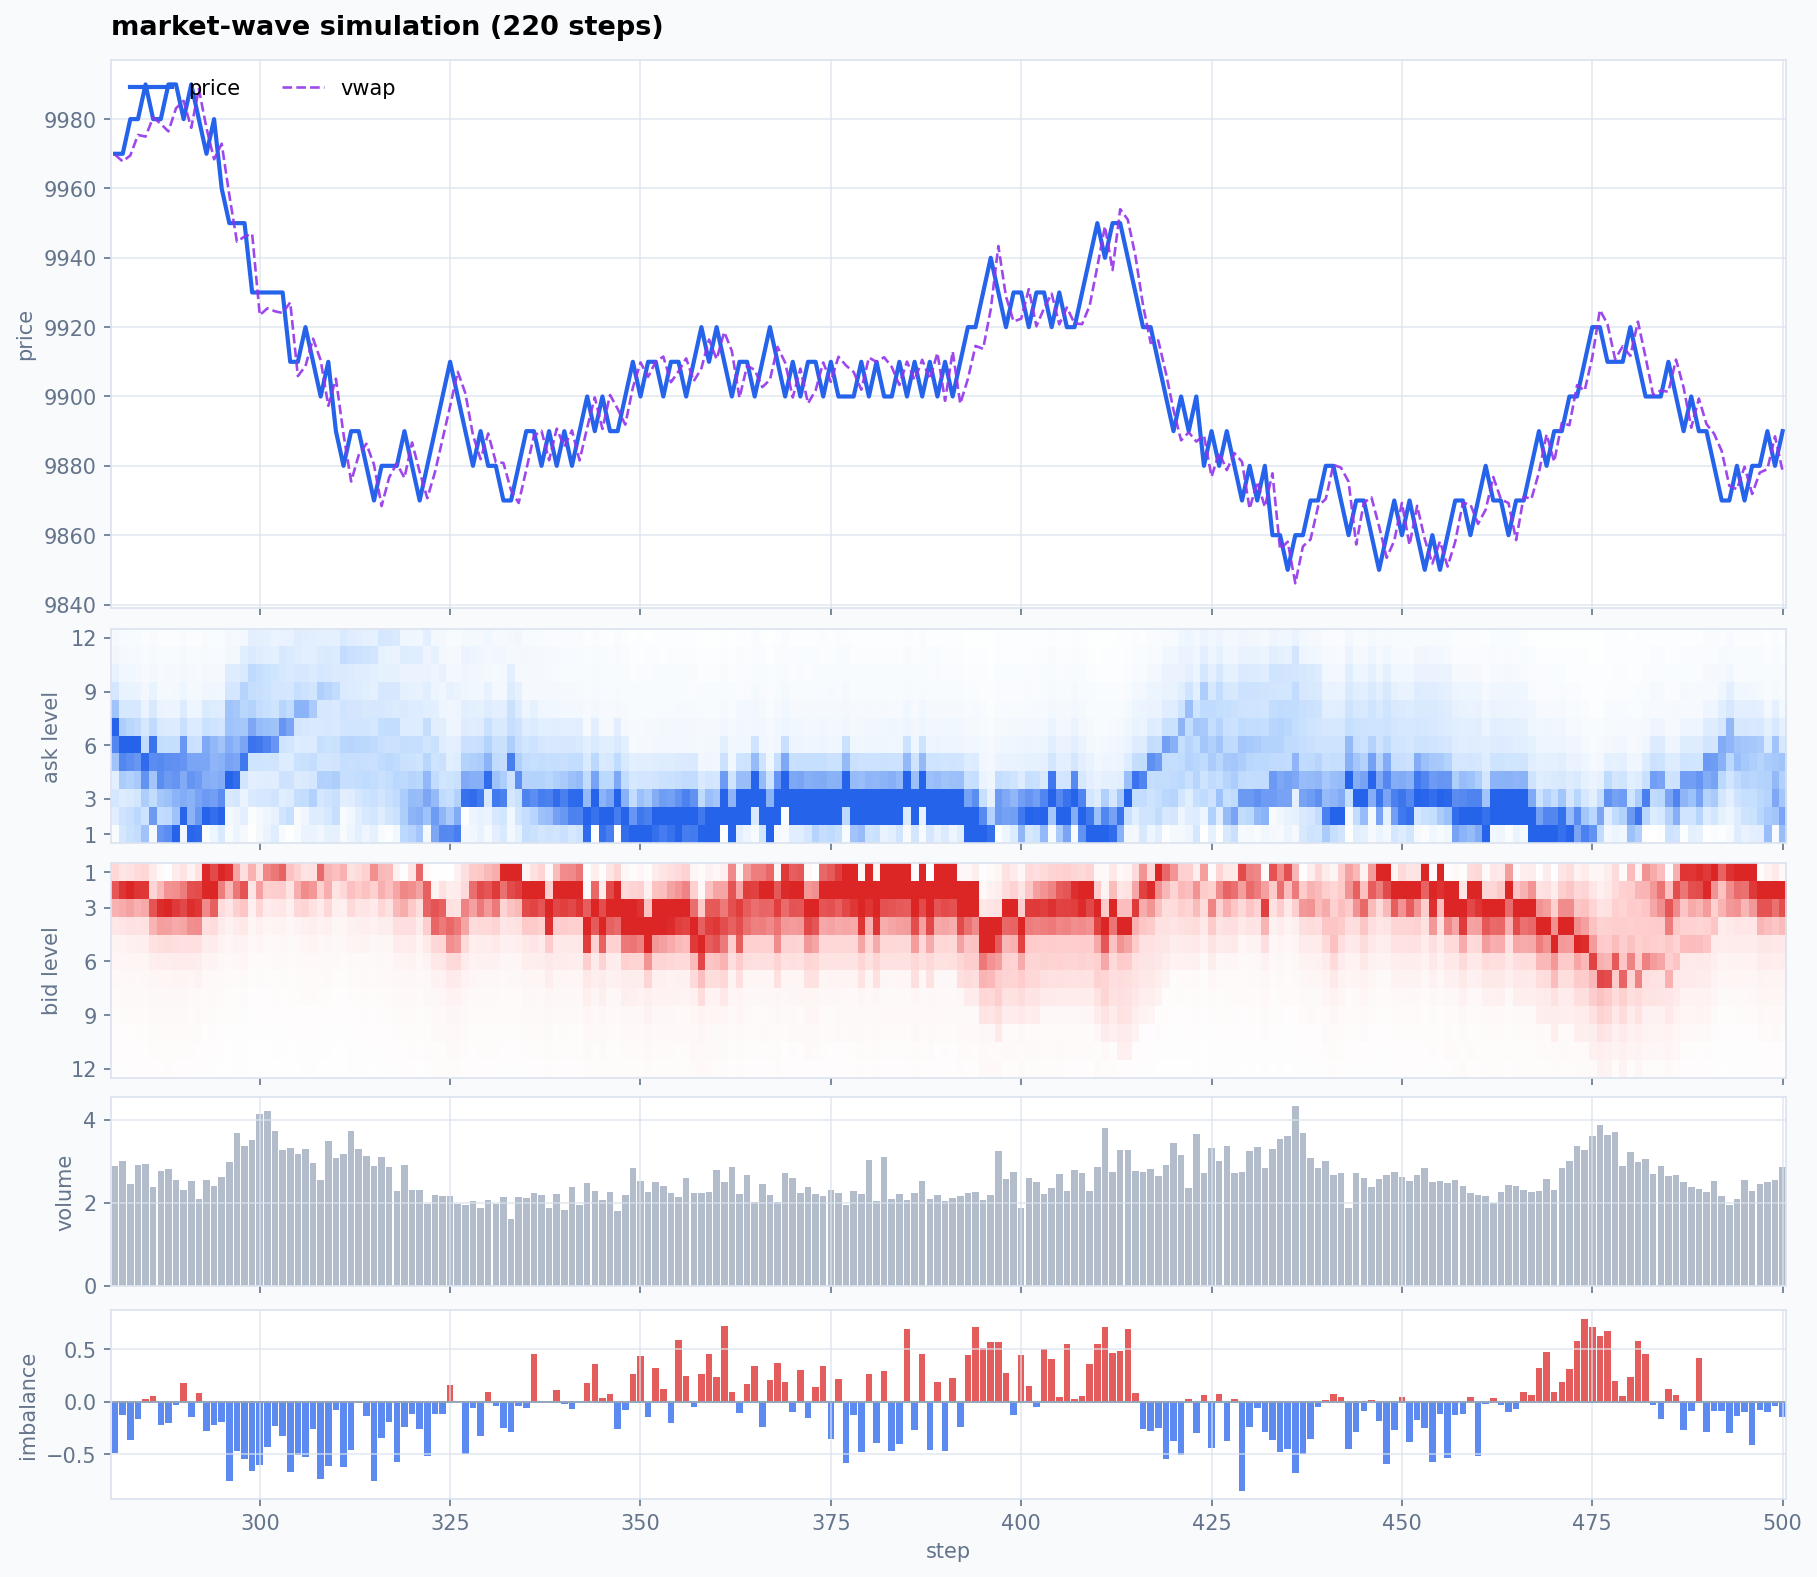
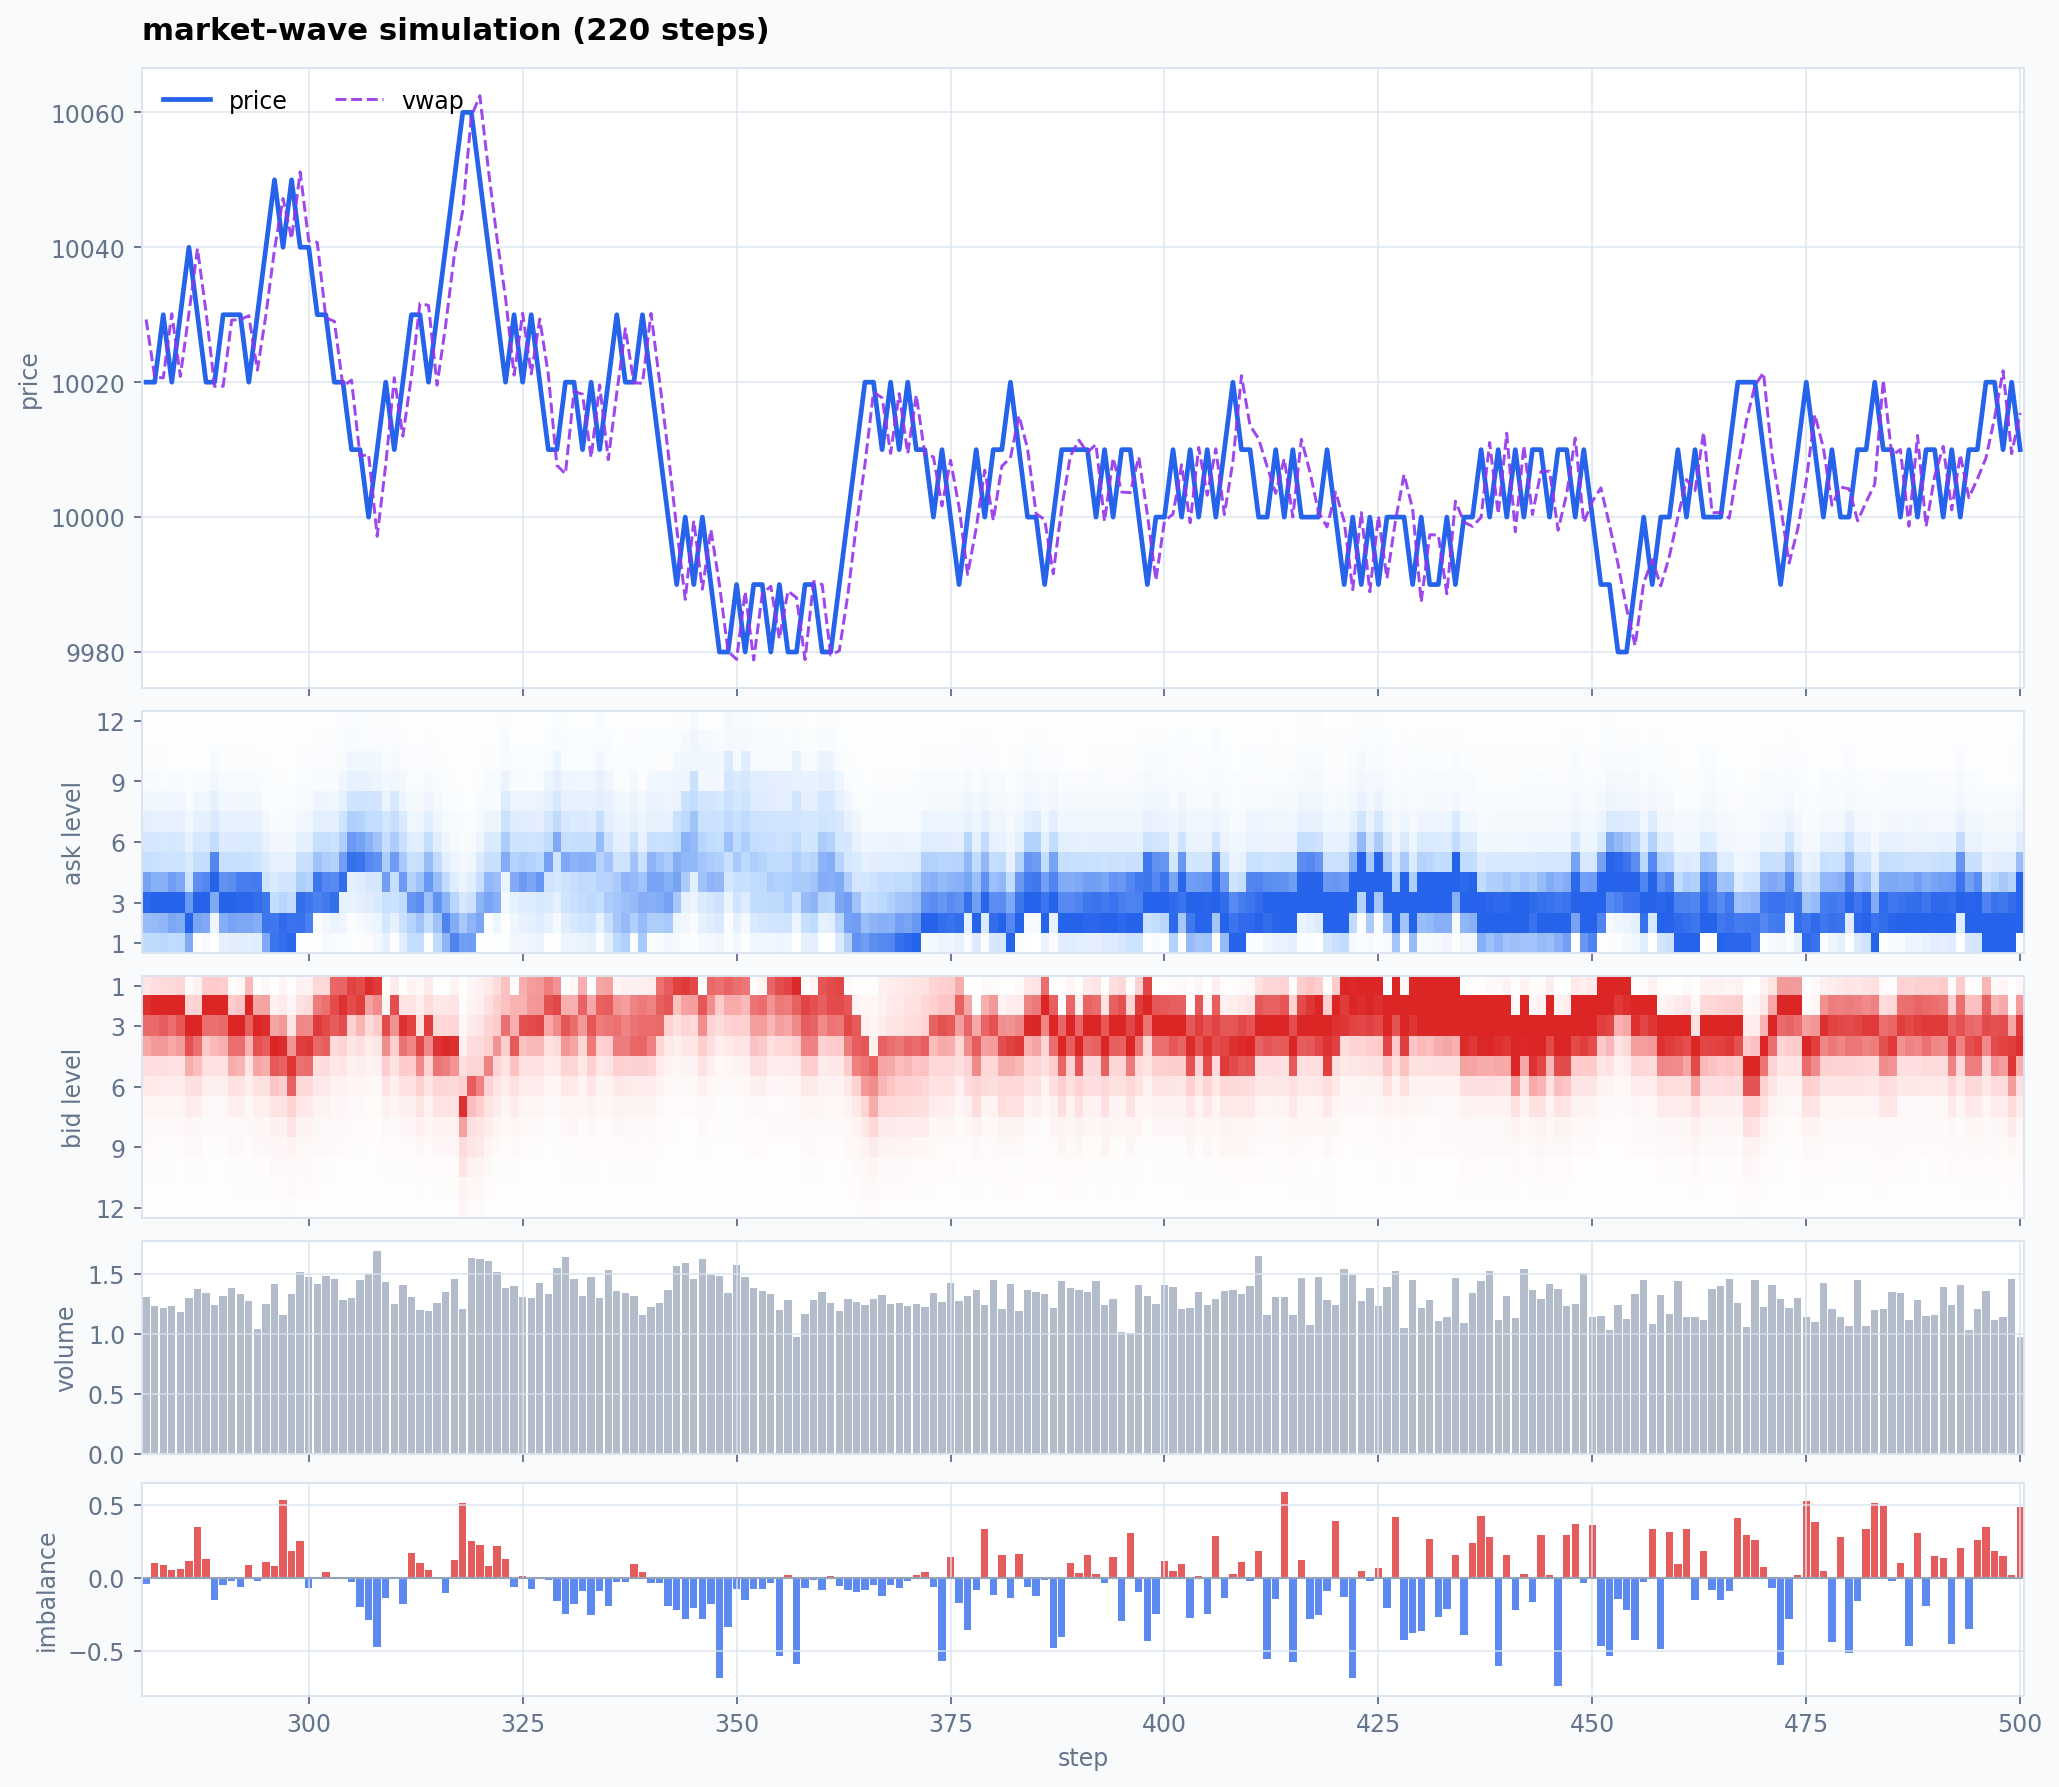
Release 0.4.1

diff --git a/src/market_wave/distribution.py b/src/market_wave/distribution.py
@@ -71,6 +71,7 @@ class DynamicMDFModel:
         signals: MDFSignals | None = None,
     ) -> list[float]:
         signals = signals or MDFSignals()
+        uses_default_components = self.components is None
         components = self.components or self._default_components(side, intent, context)
         liquidity_scale = _scale_map(signals.liquidity_by_tick)
         memory_scale = _scale_map(signals.executed_volume_by_tick)
@@ -84,6 +85,8 @@ class DynamicMDFModel:
         scores: list[float] = []
         for tick in relative_ticks:
             value_score = _component_score(tick, components)
+            if uses_default_components and intent == "entry":
+                value_score -= _entry_crossing_penalty(side, tick)
             trend_score = directional_side * trend_push * tick / max(1, len(relative_ticks))
             orderbook_score = directional_side * imbalance_push * tick / max(1, len(relative_ticks))
             liquidity_score = liquidity_scale.get(tick, 0.0)
@@ -109,23 +112,9 @@ class DynamicMDFModel:
     def _default_components(
         self, side: str, intent: str, context: MDFContext
     ) -> tuple[RelativeMDFComponent, ...]:
+        if intent == "entry" and side in {"buy", "sell"}:
+            return self._entry_components(side, context)
         spread = 1.0 + 5.5 * context.volatility
-        trend_shift = context.trend * (2.5 + 3.0 * context.volatility)
-        mood_shift = context.mood * 2.0
-        if intent == "entry" and side == "buy":
-            return (
-                RelativeMDFComponent(
-                    0.72 + max(context.mood, 0.0) * 0.18, -1 + trend_shift, spread
-                ),
-                RelativeMDFComponent(0.28, -4 + mood_shift, spread * 1.8),
-            )
-        if intent == "entry" and side == "sell":
-            return (
-                RelativeMDFComponent(
-                    0.72 + max(-context.mood, 0.0) * 0.18, 1 + trend_shift, spread
-                ),
-                RelativeMDFComponent(0.28, 4 + mood_shift, spread * 1.8),
-            )
         if intent == "exit" and side == "long":
             return (
                 RelativeMDFComponent(0.58, 3.0, spread * 1.2),
@@ -134,6 +123,58 @@ class DynamicMDFModel:
         return (
             RelativeMDFComponent(0.58, -3.0, spread * 1.2),
             RelativeMDFComponent(0.42, 2.0, spread * 1.1),
+        )
+
+    def _entry_components(
+        self, side: str, context: MDFContext
+    ) -> tuple[RelativeMDFComponent, ...]:
+        side_direction = -1.0 if side == "buy" else 1.0
+        side_urgency = context.trend + 0.35 * context.mood
+        if side == "sell":
+            side_urgency *= -1.0
+        side_urgency = _clamp(side_urgency, -1.0, 1.0)
+
+        passive_bias = max(0.0, -side_urgency)
+        chase_bias = max(0.0, side_urgency)
+        weights = _normalize_weights(
+            (
+                0.18 + 0.05 * passive_bias,
+                0.36 + 0.04 * passive_bias - 0.04 * chase_bias,
+                0.30 + 0.02 * chase_bias,
+                0.16 + 0.07 * chase_bias - 0.03 * passive_bias,
+            )
+        )
+
+        volatility = max(0.0, context.volatility)
+        spread = 0.85 + 3.6 * volatility
+        volatility_extension = min(2.0, 1.2 * volatility)
+        weak_shift = 0.7 * (context.trend + 0.40 * context.mood)
+        fair_shift = context.trend * (1.6 + 1.2 * volatility) + context.mood * 0.70
+        chase_shift = context.trend * (1.2 + 0.8 * volatility) + context.mood * 0.50
+
+        # These are reservation-price zones. They create passive interest through
+        # the MDF itself instead of pinning synthetic walls to absolute prices.
+        return (
+            RelativeMDFComponent(
+                weights[0],
+                side_direction * (7.0 + volatility_extension) + weak_shift,
+                spread * 1.45,
+            ),
+            RelativeMDFComponent(
+                weights[1],
+                side_direction * (3.5 + 0.6 * volatility_extension) + weak_shift,
+                spread * 0.90,
+            ),
+            RelativeMDFComponent(
+                weights[2],
+                side_direction * 0.8 + fair_shift,
+                spread * 0.70,
+            ),
+            RelativeMDFComponent(
+                weights[3],
+                -side_direction * (2.0 + 0.4 * volatility_extension) + chase_shift,
+                spread * 0.60,
+            ),
         )
 
 
@@ -151,6 +192,23 @@ def _component_score(tick: int, components: Sequence[RelativeMDFComponent]) -> f
         spread = max(component.spread_ticks, 1e-12)
         mass += component.weight * exp(-abs(tick - component.center_tick) / spread)
     return log(max(mass, 1e-12))
+
+
+def _entry_crossing_penalty(side: str, tick: int) -> float:
+    aggressive_ticks = tick if side == "buy" else -tick
+    if aggressive_ticks <= 0:
+        return 0.0
+    return 0.12 * aggressive_ticks**1.35
+
+
+def _normalize_weights(values: Sequence[float]) -> tuple[float, ...]:
+    cleaned = tuple(max(1e-12, value) for value in values)
+    total = sum(cleaned)
+    return tuple(value / total for value in cleaned)
+
+
+def _clamp(value: float, lower: float, upper: float) -> float:
+    return max(lower, min(upper, value))
 
 
 def _scale_map(values: Mapping[int, float]) -> TickMap:

diff --git a/tests/test_market_wave_api_contract.py b/tests/test_market_wave_api_contract.py
@@ -945,6 +945,32 @@ def test_stepinfo_exposes_relative_tick_mdfs():
     assert step.price_change == pytest.approx(step.tick_change * market.tick_size)
 
 
+def test_default_entry_mdfs_keep_passive_reservation_price_zones():
+    market = Market(
+        initial_price=100.0,
+        gap=1.0,
+        seed=7,
+        grid_radius=12,
+        regime="normal",
+        augmentation_strength=0.0,
+    )
+
+    step = market.step(1, keep_history=False)[0]
+    buy_passive = sum(volume for tick, volume in step.buy_entry_mdf.items() if tick <= -2)
+    sell_passive = sum(volume for tick, volume in step.sell_entry_mdf.items() if tick >= 2)
+    buy_marketish = sum(volume for tick, volume in step.buy_entry_mdf.items() if tick >= 1)
+    sell_marketish = sum(volume for tick, volume in step.sell_entry_mdf.items() if tick <= -1)
+    buy_arrival = sum(volume for tick, volume in step.buy_entry_mdf.items() if -1 <= tick <= 0)
+    sell_arrival = sum(volume for tick, volume in step.sell_entry_mdf.items() if 0 <= tick <= 1)
+
+    assert buy_passive > 0.55
+    assert sell_passive > 0.55
+    assert buy_marketish < 0.25
+    assert sell_marketish < 0.25
+    assert buy_arrival > 0.10
+    assert sell_arrival > 0.10
+
+
 def test_stepinfo_mdf_price_basis_is_pre_trade_price():
     market = Market(initial_price=100.0, gap=1.0, seed=24, grid_radius=6)
 
@@ -1193,6 +1219,41 @@ def test_orderbook_state_is_nonnegative_and_carries_forward_tolerantly():
     assert carryover_seen or nonempty, (
         "Expected order book depth to persist or remain observable across steps"
     )
+
+
+def test_default_entry_mdfs_build_passive_depth_without_killing_executions():
+    market = Market(
+        initial_price=100.0,
+        gap=1.0,
+        popularity=1.0,
+        seed=31,
+        grid_radius=12,
+        regime="normal",
+        augmentation_strength=0.0,
+    )
+
+    deep_bid_seen = False
+    deep_ask_seen = False
+    total_executed = 0.0
+    for step in market.step(40, keep_history=False):
+        price = step.price_after
+        deep_bid = sum(
+            volume
+            for bid_price, volume in step.orderbook_after.bid_volume_by_price.items()
+            if (price - bid_price) / market.gap >= 3
+        )
+        deep_ask = sum(
+            volume
+            for ask_price, volume in step.orderbook_after.ask_volume_by_price.items()
+            if (ask_price - price) / market.gap >= 3
+        )
+        deep_bid_seen = deep_bid_seen or deep_bid > 0.5
+        deep_ask_seen = deep_ask_seen or deep_ask > 0.5
+        total_executed += step.total_executed_volume
+
+    assert deep_bid_seen
+    assert deep_ask_seen
+    assert total_executed > 0.0
 
 
 def test_stepinfo_exposes_market_realism_diagnostics():

diff --git a/README.ko.md b/README.ko.md
@@ -105,11 +105,11 @@ for step in market.stream(512, keep_history=False):
 `seed=42` 기준 예시 출력:
 
 ```text
-9880.0 -> 9890.0
-entry: 3.321
-executed: 2.863
-resting bid/ask: 16.4 15.632
-imbalance: -0.151
+10020.0 -> 10010.0
+entry: 2.955
+executed: 0.976
+resting bid/ask: 24.662 25.83
+imbalance: 0.484
 ```
 
 ## 스모크 매트릭스
@@ -142,12 +142,12 @@ for name, kwargs, steps_count in cases:
 현재 구현에서 최근 검증한 결과:
 
 ```text
-baseline  range=  9850.0- 10050.0 unique= 21 moves=396 exec_steps=500 final=  9890.0
-busy      range=  9940.0- 10260.0 unique= 32 moves=397 exec_steps=500 final= 10260.0
-thin      range=   500.0-   650.0 unique= 31 moves=339 exec_steps=500 final=   630.0
-low_price range=     2.0-    24.0 unique= 23 moves=393 exec_steps=500 final=    21.0
-trend_up  range=  9990.0- 10420.0 unique= 44 moves=402 exec_steps=500 final= 10410.0
-high_vol  range=  9980.0- 10180.0 unique= 21 moves=422 exec_steps=500 final= 10140.0
+baseline  range=  9900.0- 10080.0 unique= 19 moves=369 exec_steps=500 final= 10010.0
+busy      range=  9890.0- 10030.0 unique= 15 moves=388 exec_steps=500 final=  9910.0
+thin      range=   455.0-   535.0 unique= 17 moves=318 exec_steps=500 final=   500.0
+low_price range=     2.0-    24.0 unique= 23 moves=380 exec_steps=500 final=    19.0
+trend_up  range= 10000.0- 10320.0 unique= 33 moves=388 exec_steps=500 final= 10320.0
+high_vol  range=  9960.0- 10040.0 unique=  9 moves=405 exec_steps=500 final=  9970.0
 inactive  range=   100.0-   100.0 unique=  1 moves=  0 exec_steps=  0 final=   100.0
 ```
 
@@ -158,7 +158,7 @@ Dynamic MDF acceptance는 `mdf_temperature=1.0`에서 seed `10..19`도 실행해
 모든 MDF가 finite, non-negative, normalized 상태를 유지하고 한 가격으로
 붕괴하지 않는지도 확인합니다.
 
-`0.4.0` 진단 메모: 시뮬레이터는 여전히 가격을 초기값으로 되돌리는 anchor나
+`0.4.1` 진단 메모: 시뮬레이터는 여전히 가격을 초기값으로 되돌리는 anchor나
 저장된 목표 가격을 갖지 않습니다. seed로 정해진 `mood`, `trend`, `volatility`,
 microstructure activity, cancellation pressure, event pressure가 매 step 전이되며
 MDF와 visible book을 바꿉니다. 가격은 체결 기반으로 움직이고, 체결 flow가
@@ -171,6 +171,13 @@ Entry MDF의 가격은 incoming order 가격으로 취급됩니다. 매수 entry
 가격은 resting quote 가격입니다. 체결되지 않은 물량은 sampled MDF 가격에
 그대로 미체결 호가로 남습니다. Exit flow는 cohort 조건부로 생성되며, exit
 주문도 원래 cohort id를 들고 visible order-book liquidity를 통해 처리됩니다.
+
+`0.4.1` MDF 메모: 기본 entry MDF는 이제 side-relative reservation-price
+mixture를 사용합니다. 매수 entry 의도는 deep value, passive bid, arrival,
+작은 chase 구간에 분산되고, 매도 entry 의도는 ask 쪽에서 이를 대칭적으로
+반영합니다. 고정된 synthetic wall을 추가하지 않고 MDF 자체에 passive limit
+interest가 남도록 하며, buy-ask와 sell-bid 방향으로 과하게 새던 tail mass를
+줄입니다.
 
 `0.4.0` microstructure 메모: orderbook 보충은 regime별 depth shape, resiliency,
 absolute tick 기준 wall memory, event-driven volume burst, cancellation pressure

diff --git a/README.md b/README.md
@@ -107,11 +107,11 @@ For simple export workflows, use `step.to_dict()`, `step.to_json()`, or
 Example output with `seed=42`:
 
 ```text
-9880.0 -> 9890.0
-entry: 3.321
-executed: 2.863
-resting bid/ask: 16.4 15.632
-imbalance: -0.151
+10020.0 -> 10010.0
+entry: 2.955
+executed: 0.976
+resting bid/ask: 24.662 25.83
+imbalance: 0.484
 ```
 
 ## Smoke Matrix
@@ -144,12 +144,12 @@ for name, kwargs, steps_count in cases:
 Recent verification on the current implementation:
 
 ```text
-baseline  range=  9850.0- 10050.0 unique= 21 moves=396 exec_steps=500 final=  9890.0
-busy      range=  9940.0- 10260.0 unique= 32 moves=397 exec_steps=500 final= 10260.0
-thin      range=   500.0-   650.0 unique= 31 moves=339 exec_steps=500 final=   630.0
-low_price range=     2.0-    24.0 unique= 23 moves=393 exec_steps=500 final=    21.0
-trend_up  range=  9990.0- 10420.0 unique= 44 moves=402 exec_steps=500 final= 10410.0
-high_vol  range=  9980.0- 10180.0 unique= 21 moves=422 exec_steps=500 final= 10140.0
+baseline  range=  9900.0- 10080.0 unique= 19 moves=369 exec_steps=500 final= 10010.0
+busy      range=  9890.0- 10030.0 unique= 15 moves=388 exec_steps=500 final=  9910.0
+thin      range=   455.0-   535.0 unique= 17 moves=318 exec_steps=500 final=   500.0
+low_price range=     2.0-    24.0 unique= 23 moves=380 exec_steps=500 final=    19.0
+trend_up  range= 10000.0- 10320.0 unique= 33 moves=388 exec_steps=500 final= 10320.0
+high_vol  range=  9960.0- 10040.0 unique=  9 moves=405 exec_steps=500 final=  9970.0
 inactive  range=   100.0-   100.0 unique=  1 moves=  0 exec_steps=  0 final=   100.0
 ```
 
@@ -160,7 +160,7 @@ steps with executed volume. Dynamic MDF acceptance also runs seeds `10..19` at
 `mdf_temperature=1.0` and checks that every MDF remains finite, non-negative,
 normalized, and broad enough not to collapse to a single price.
 
-Diagnostic note for `0.4.0`: the simulator still has no anchor price or stored
+Diagnostic note for `0.4.1`: the simulator still has no anchor price or stored
 target that pulls paths back to the initial price. Seeded `mood`, `trend`,
 `volatility`, microstructure activity, cancellation pressure, and event pressure
 evolve each step and reshape the MDFs and visible book. Prices remain
@@ -175,6 +175,13 @@ existing opposite-side quotes. Executions print at the resting quote price.
 Unfilled volume remains in the book at the sampled MDF price. Exit flow is
 cohort-conditioned, so exit orders carry the originating cohort id and still
 route through visible order-book liquidity.
+
+MDF note for `0.4.1`: the default entry MDF now uses a side-relative
+reservation-price mixture. Buy entry intent is spread across deep value,
+passive bid, arrival, and small chase zones; sell entry intent mirrors that on
+the ask side. This keeps passive limit interest in the MDF itself instead of
+adding synthetic fixed walls, while reducing excessive buy-ask and sell-bid
+tail mass.
 
 Microstructure note for `0.4.0`: order-book replenishment now includes
 regime-specific depth shape, resiliency, wall memory by absolute tick,
